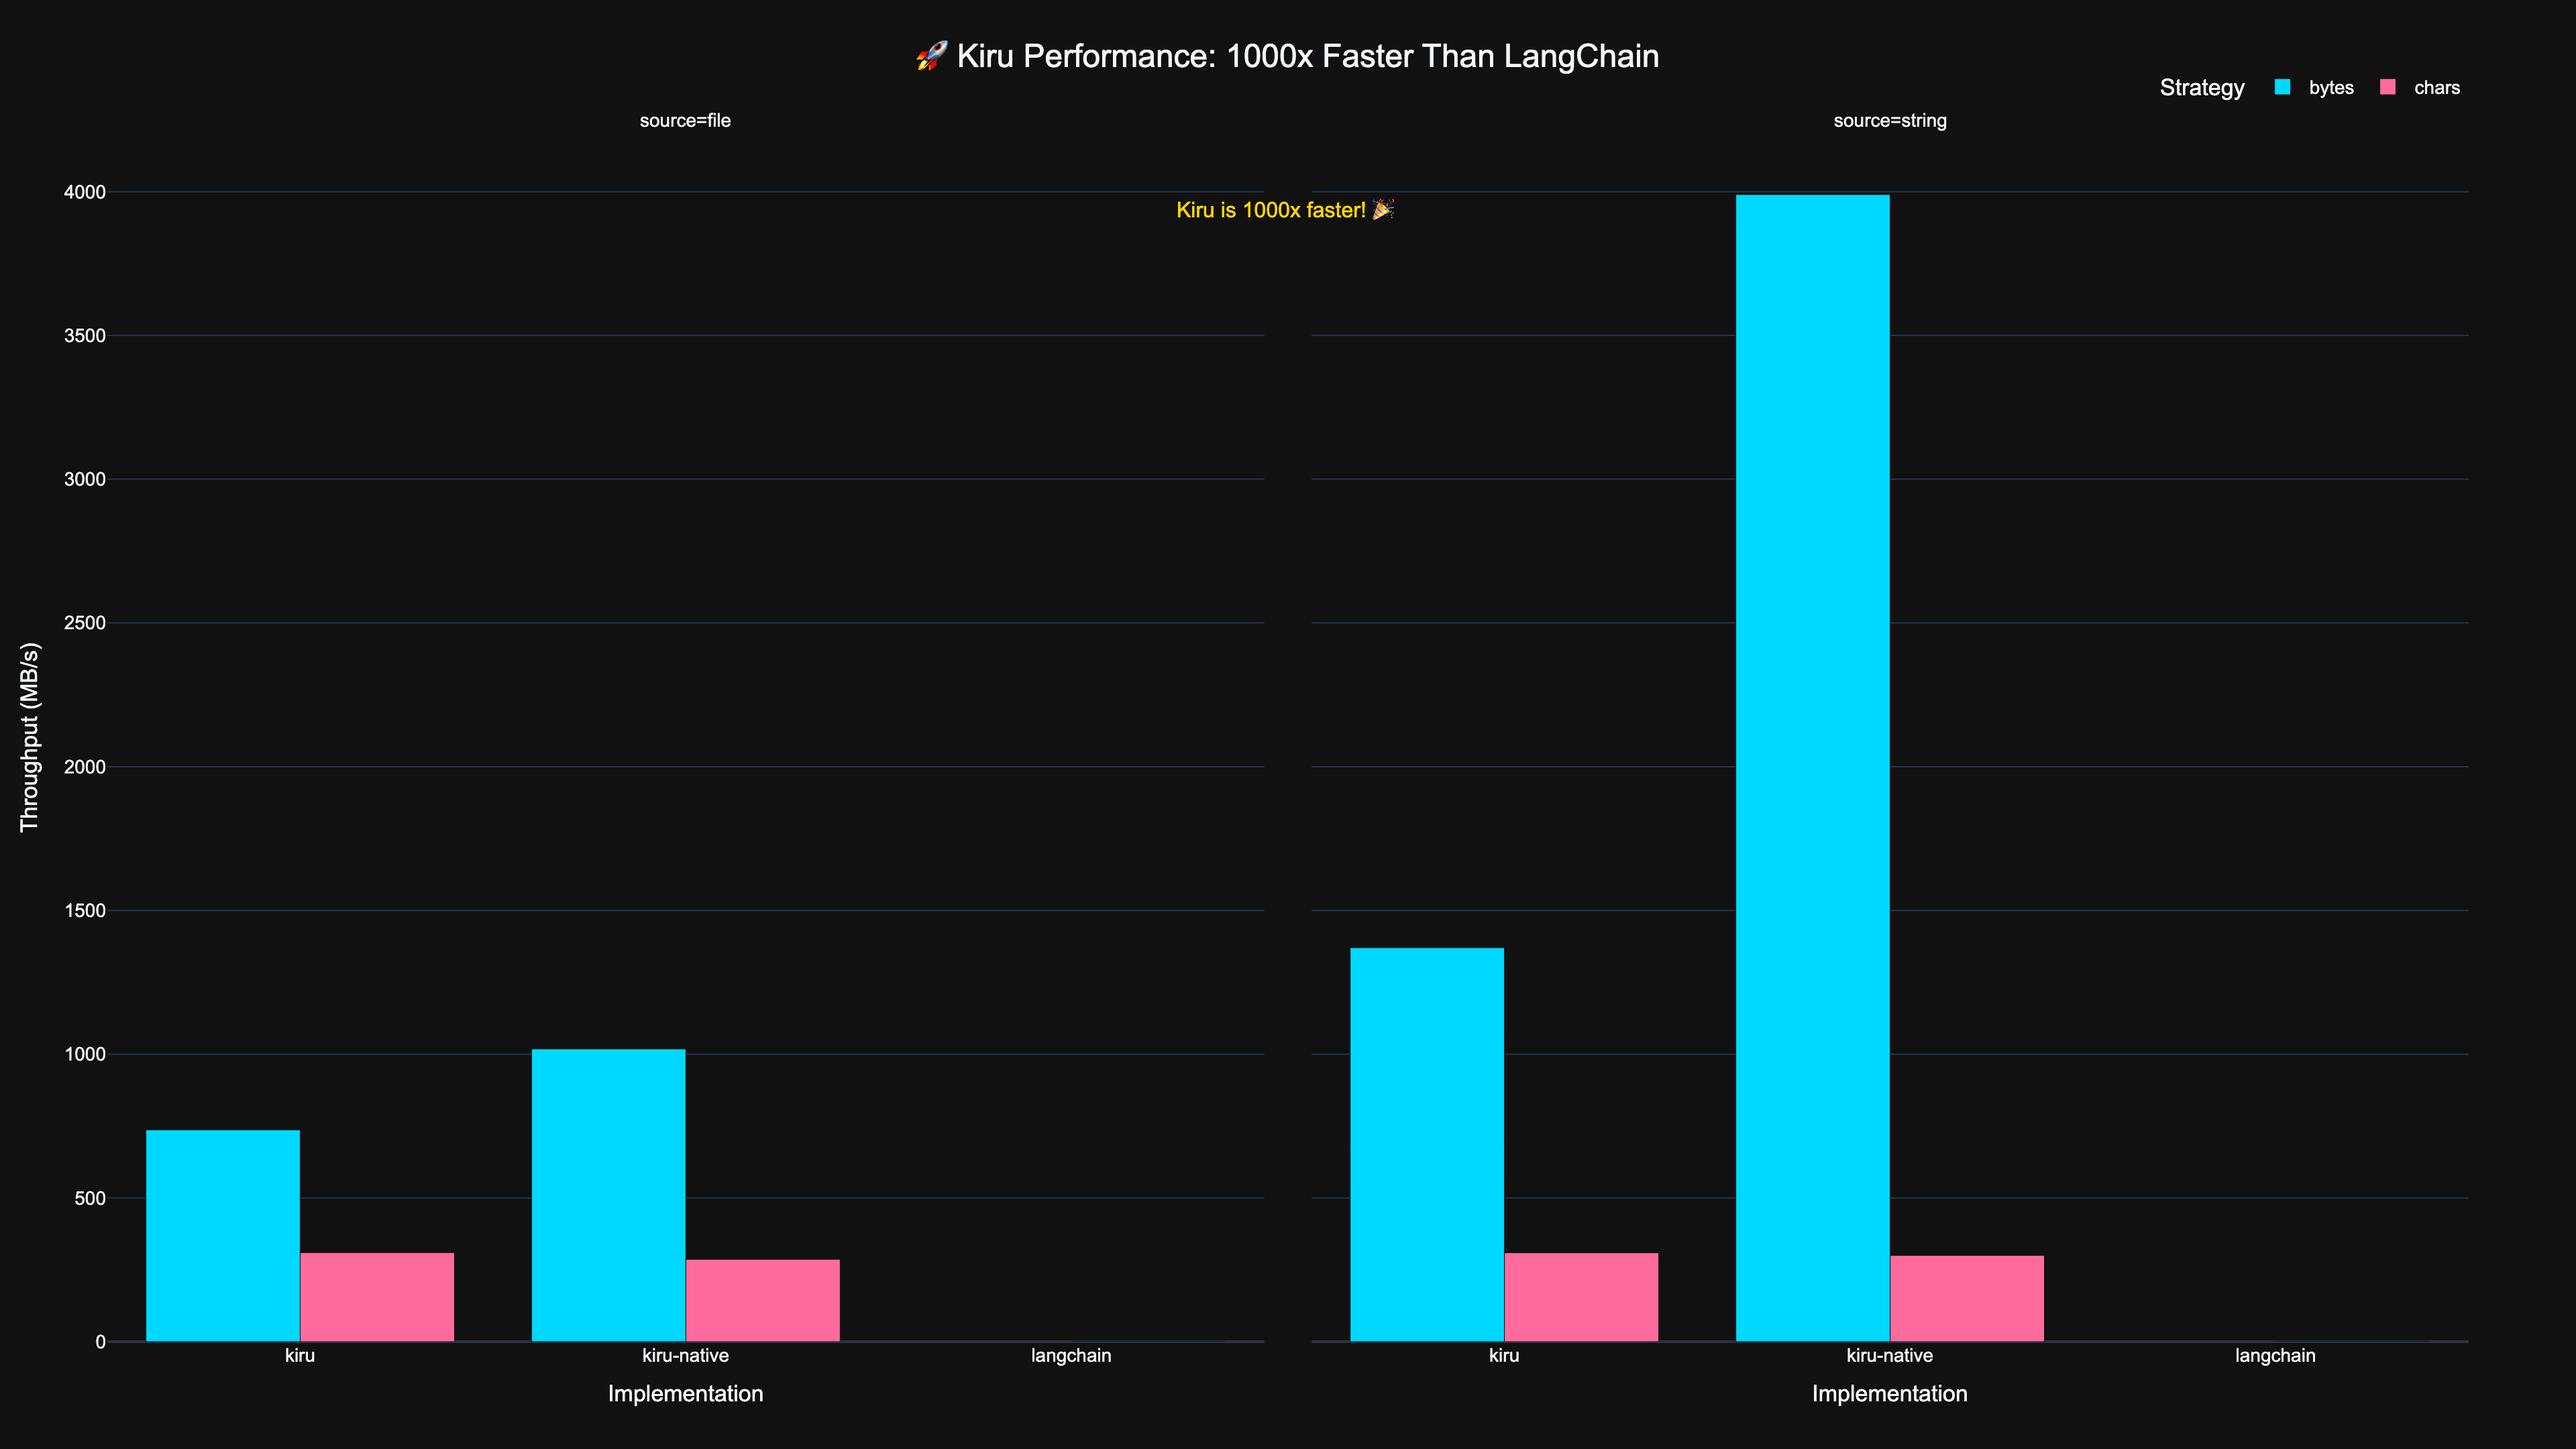
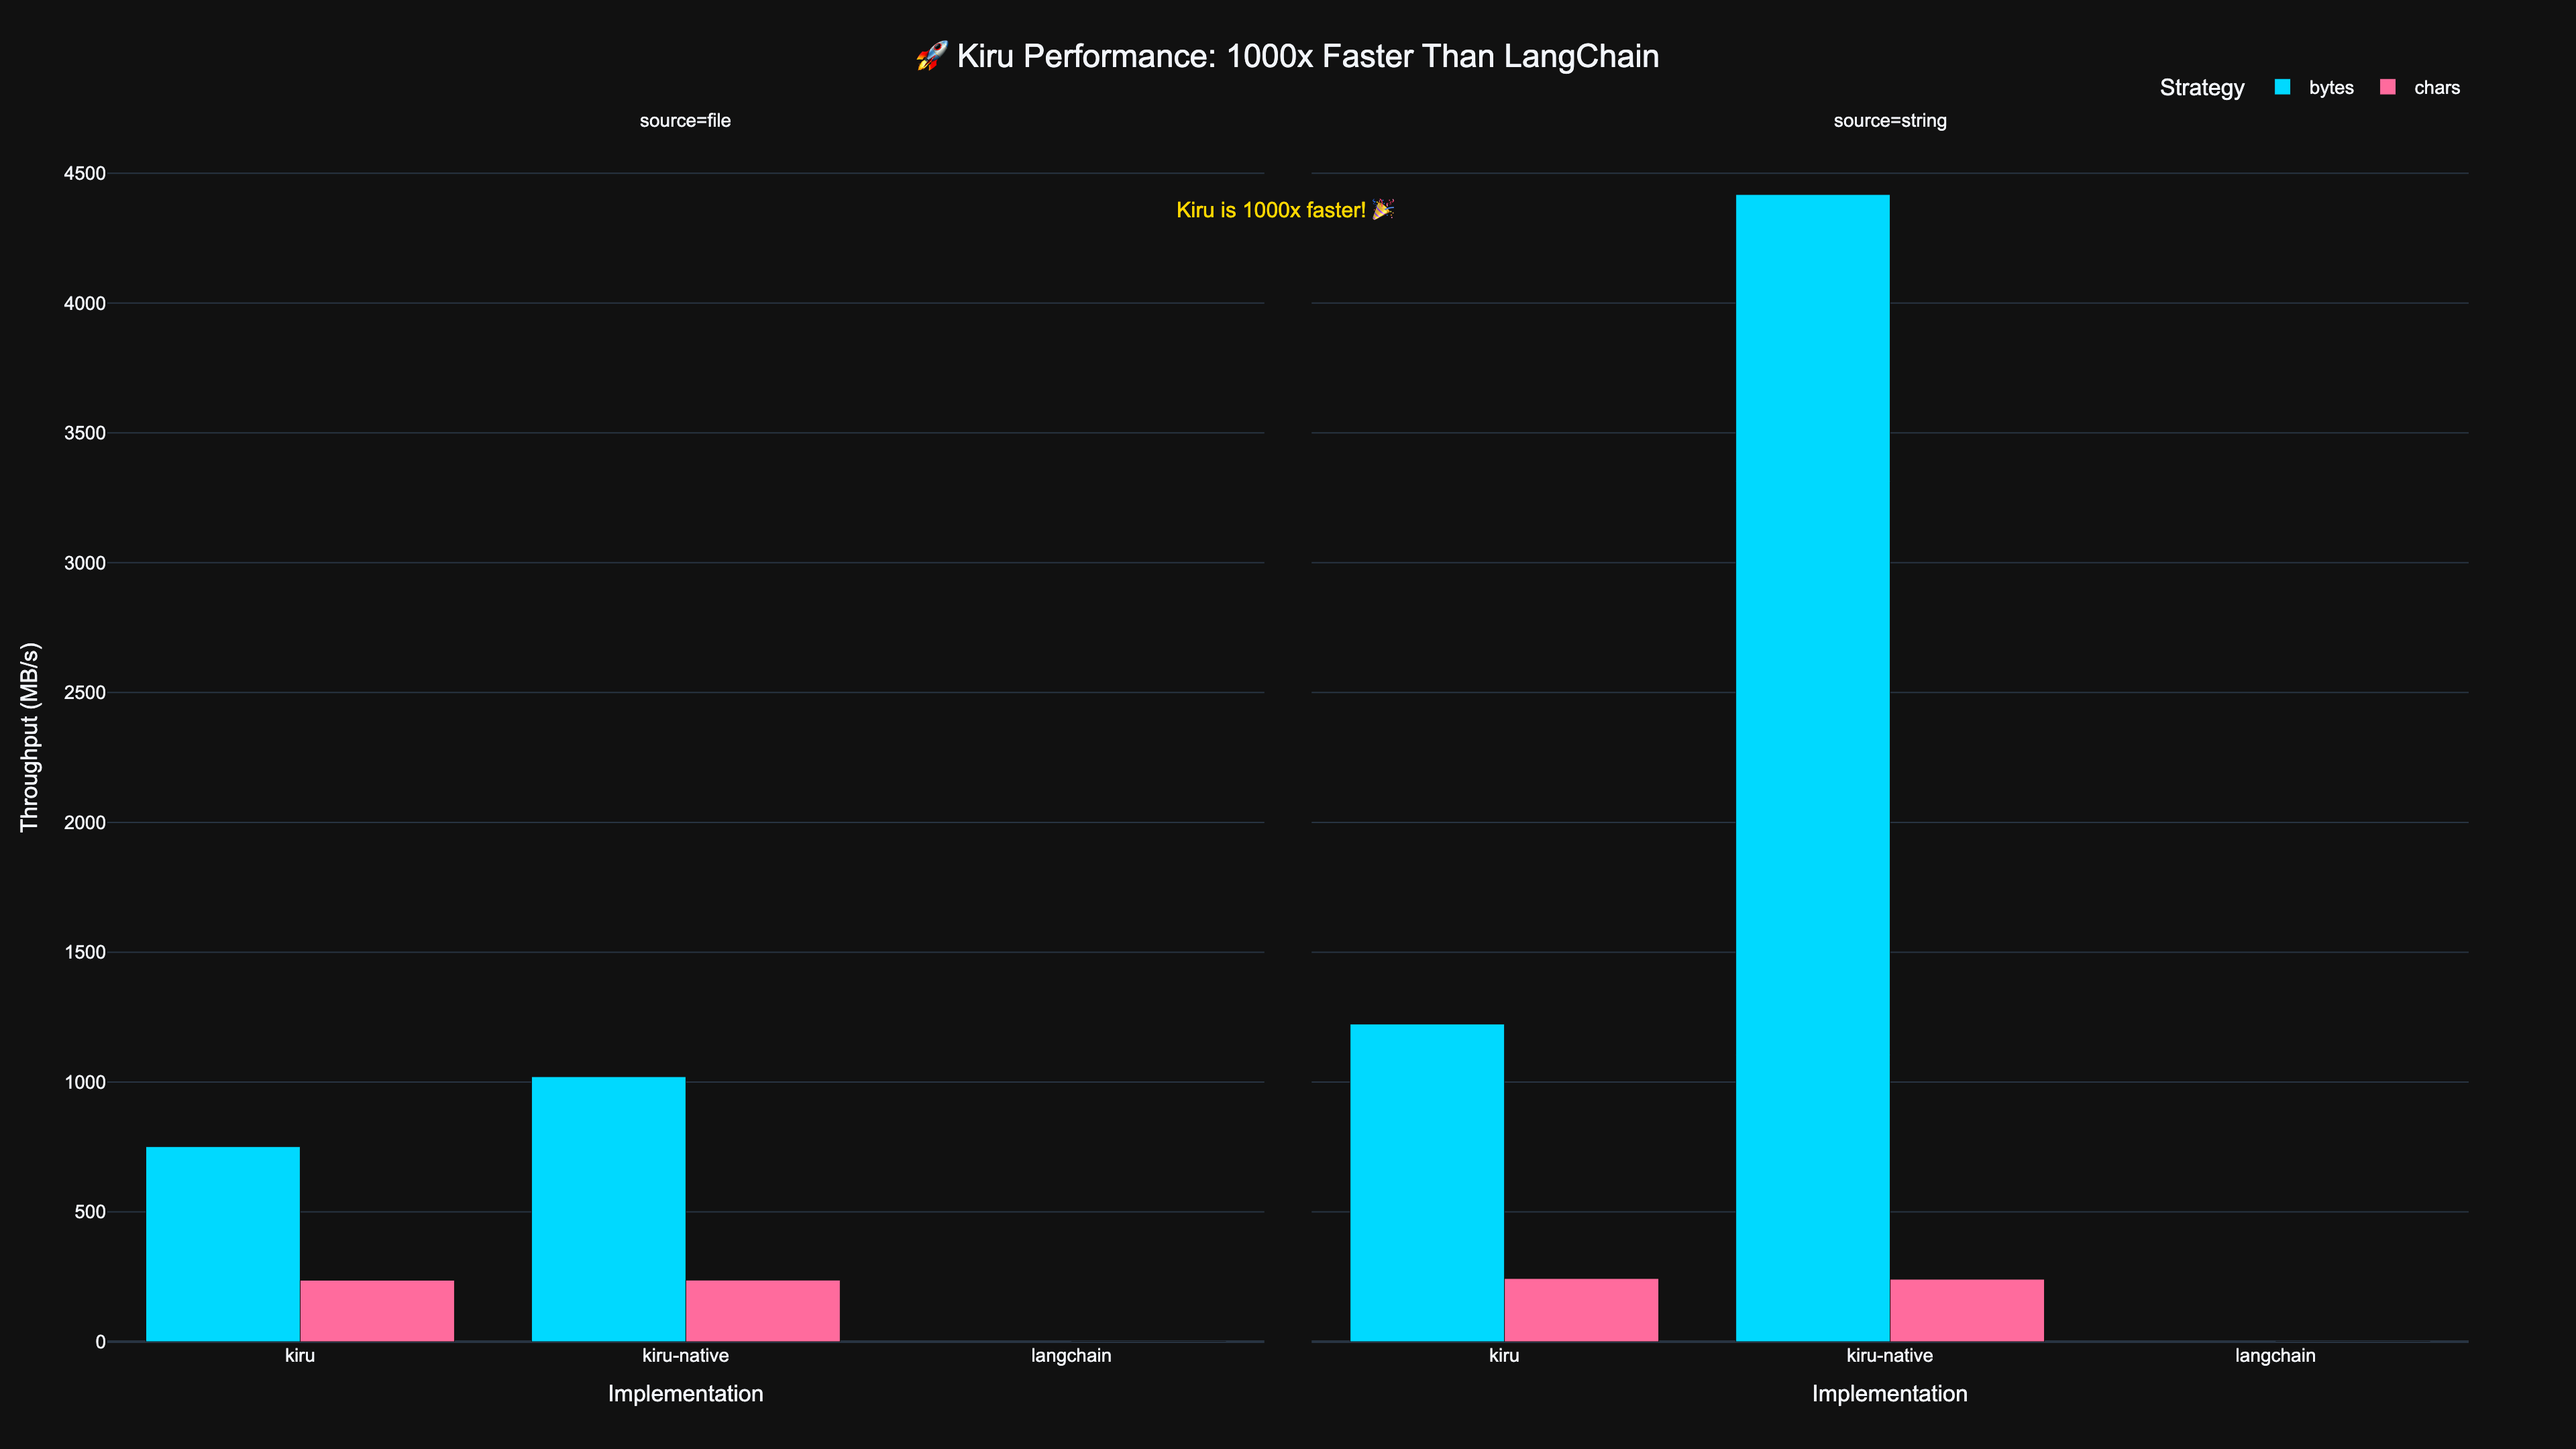
feat: update chunking strategy to use characters and refresh benchmark results

diff --git a/kiru-core/benches/par_chunking.rs b/kiru-core/benches/par_chunking.rs
@@ -211,7 +211,7 @@ fn benchmark_channel_size(c: &mut Criterion) {
             &sources,
             |b, sources| {
                 b.iter(|| {
-                    let chunker = ChunkerBuilder::by_bytes(CHUNK_SIZE, OVERLAP).unwrap();
+                    let chunker = ChunkerBuilder::by_characters(CHUNK_SIZE, OVERLAP).unwrap();
                     let iter = chunker
                         .on_sources_par_stream(sources.clone(), channel_size)
                         .unwrap();
